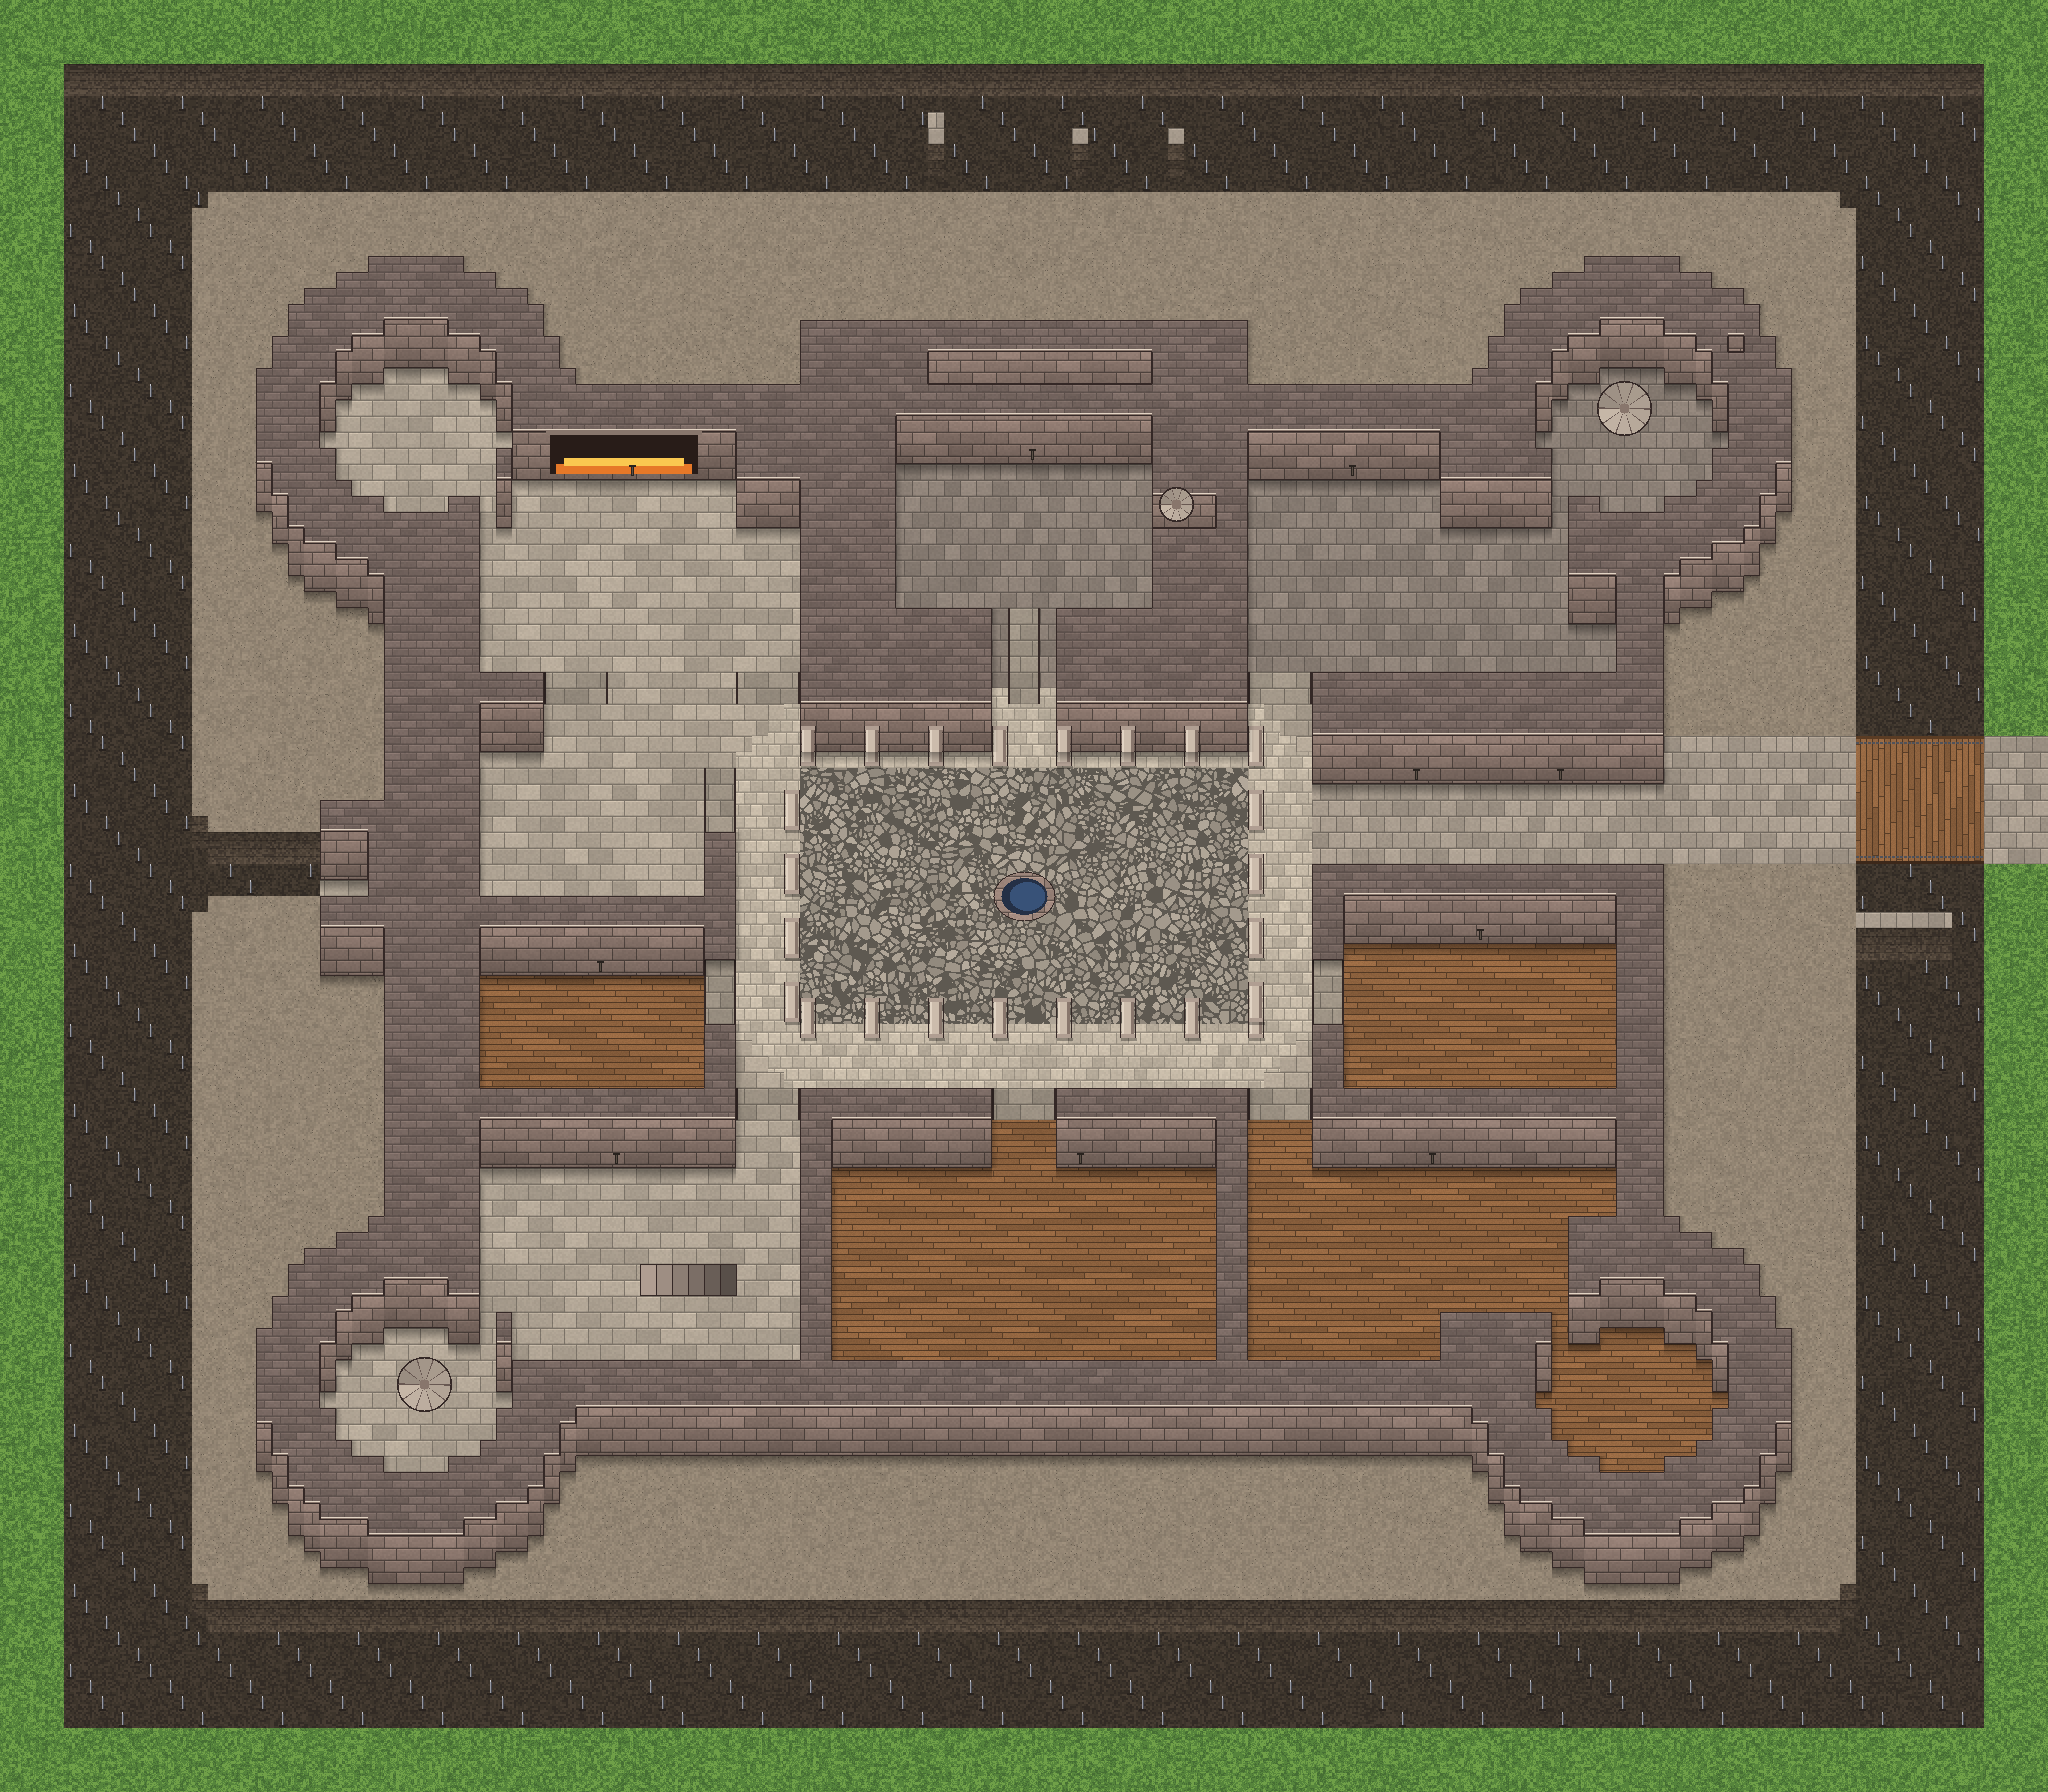
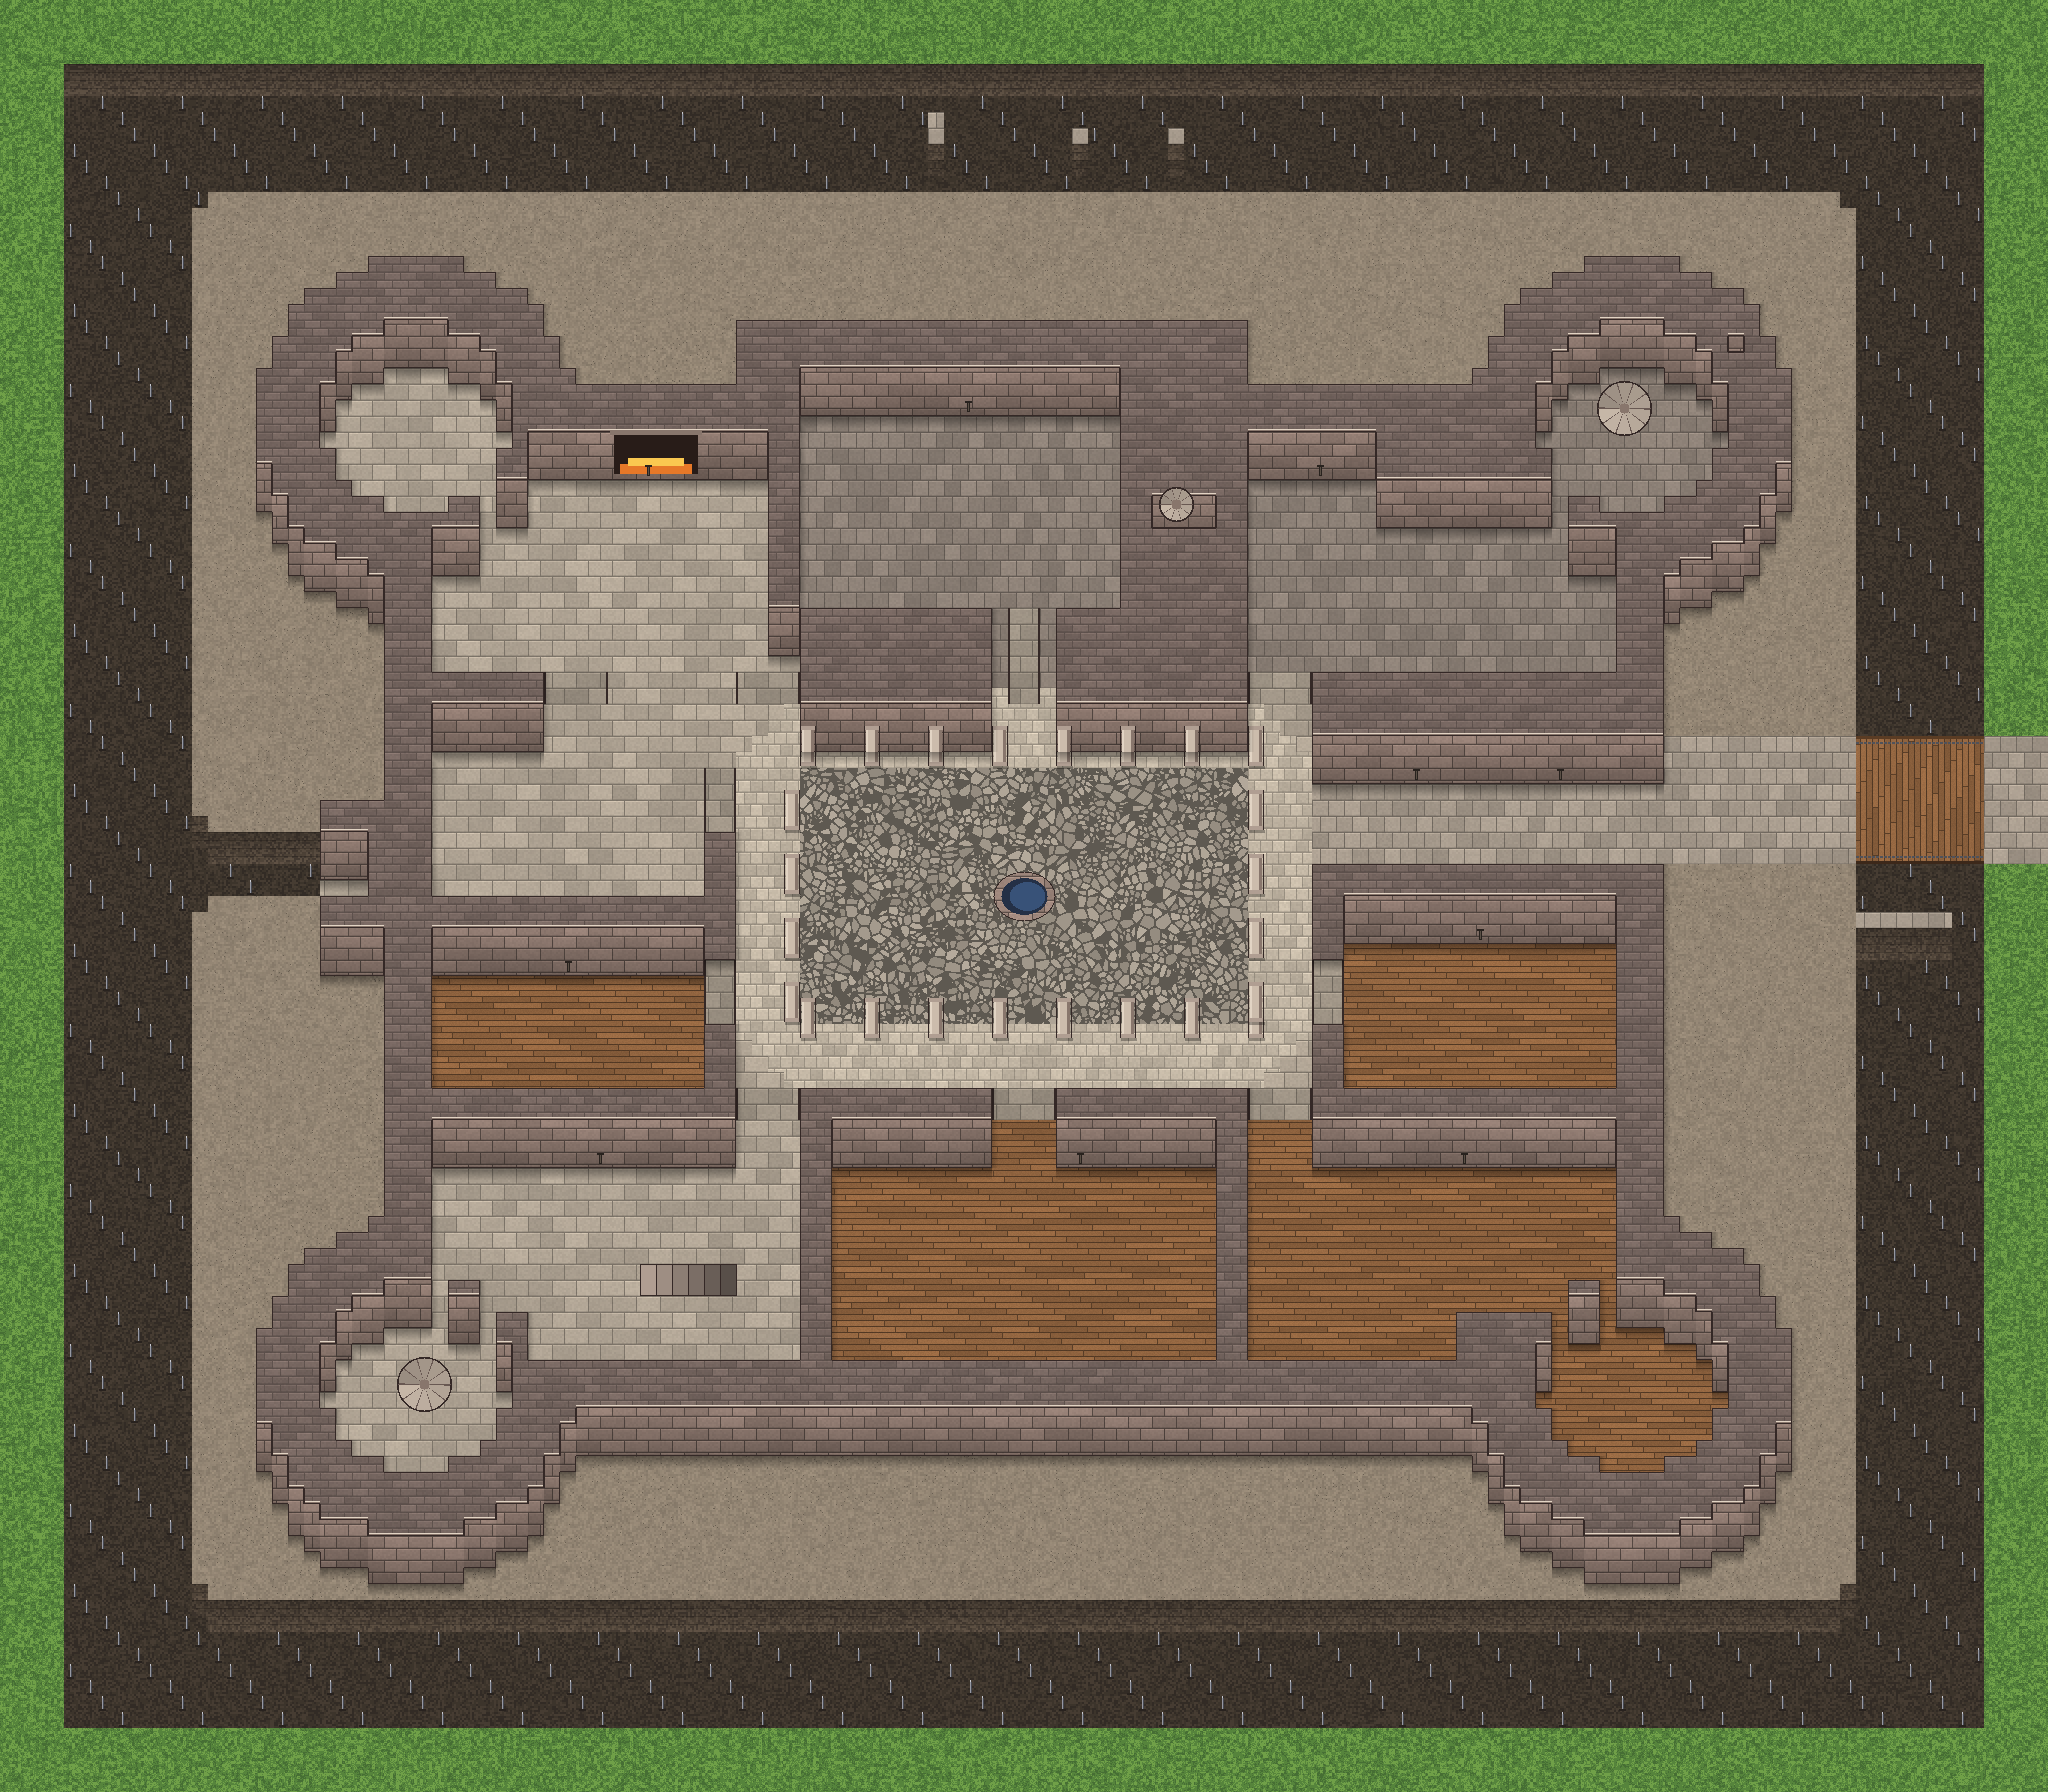
Holdfast GF: west curtain thinned (wrong columns before), tower armoury block walls thinned (outer 3, sides 2; armoury, kitchen, guardroom grow)
Claude-Session: https://claude.ai/code/session_01GSamoHXsCumctgS8PFsM3M

diff --git a/tools/build_holdfast_gf.py b/tools/build_holdfast_gf.py
@@ -91,21 +91,33 @@ g[(g == 'door') & ~body] = 'gate'
 # projecting north block over the tower armoury y 20-25. Inner walls and the corner towers are not touched.
 def isfl(v): return v in ('room', 'cloister', 'yard', 'door')
 tot = 0
-for y in range(36, 76):                                     # west / east runs, clear of the towers
-    if isfl(g[y, 26]) and all(g[y, x] == 'wall' for x in range(23, 26)):
-        g[y, 23:26] = 'room'; tot += 3
-    if isfl(g[y, 97]) and all(g[y, x] == 'wall' for x in range(98, 101)):
+# grid columns/rows (checked on the printed grid): west curtain x 24-29, east x 98-103, south y 82-87, north over the
+# kitchen and guardroom y 24-29; the outer three stay, the inner three become floor. Corner towers excluded.
+for y in range(33, 80):
+    if isfl(g[y, 30]) and all(g[y, x] == 'wall' for x in range(24, 30)):
+        g[y, 27:30] = 'room'; tot += 3
+    if isfl(g[y, 97]) and all(g[y, x] == 'wall' for x in range(98, 104)):
         g[y, 98:101] = 'room'; tot += 3
-for x in range(30, 90):                                     # south run
-    if isfl(g[81, x]) and all(g[y, x] == 'wall' for y in range(82, 85)):
+for x in range(33, 86):
+    if isfl(g[81, x]) and all(g[y, x] == 'wall' for y in range(82, 88)):
         g[82:85, x] = 'room'; tot += 3
-for x in list(range(30, 46)) + list(range(74, 90)):         # north run over the kitchen and the guardroom
-    if isfl(g[30, x]) and all(g[y, x] in ('wall', 'hearth') for y in range(27, 30)):
+for x in list(range(33, 46)) + list(range(74, 86)):
+    if isfl(g[30, x]) and all(g[y, x] in ('wall', 'hearth') for y in range(24, 30)):
         g[27:30, x] = 'room'; tot += 3
-# kitchen fireplace goes back with the wall face: rows 25-26 over the same columns
-for x in range(30, 46):
-    if raw[28, x] == 'hearth' or raw[29, x] == 'hearth' or (x >= 34 and x <= 39):
-        if g[26, x] == 'wall': g[25:27, x] = 'hearth'
+for x in range(33, 46):                                       # kitchen fireplace back into the new wall face
+    if g[26, x] == 'wall' and raw[24:32, x].tolist().count('hearth'):
+        g[25:27, x] = 'hearth'
+# tower armoury block (x 46-73, y 20-37): outer wall y 20-22 (3 tiles), side walls 2 tiles (x 48-49, x 70-71);
+# the old 2-tile sliver room above it joins the armoury, the kitchen and guardroom grow into the old side walls
+g[23:38, 50:70] = 'room'; g[20:23, 46:74] = 'wall'
+g[23:38, 48:50] = 'wall'; g[23:38, 70:72] = 'wall'
+for y in range(27, 38):
+    if isfl(g[y, 45]): g[y, 46:48] = 'room'
+    if isfl(g[y, 74]): g[y, 72:74] = 'room'
+g[23:27, 46:48] = 'wall'; g[23:27, 72:74] = 'wall'
+# SE tower: its west wall on the south run was a 7-tile block; 2 tiles like the SW tower, bunks room grows
+for x in range(82, 91):
+    if isfl(g[81, x]) and (g[82:85, x] == 'wall').all(): g[82:85, x] = 'room'; tot += 3
 print('curtain thinned to 3 tiles:', tot, 'tiles became floor')
 
 # ------------------------------------------------------------------ rooms (for floor style + names)
